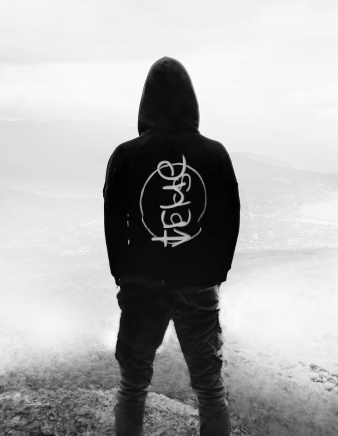
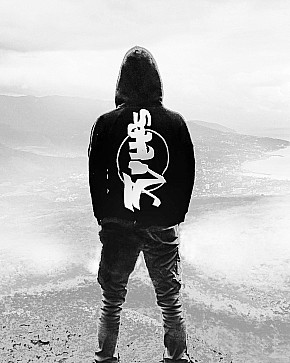
Replacing photos with contrasting ones. Adding a variable and styles to a width of 500. Fixed z-index on a modal window.

diff --git a/source/less/blocks/page-main.less b/source/less/blocks/page-main.less
@@ -140,6 +140,14 @@
 		text-align: center;
 }
 
+@media (min-width: @mobile-width-560){
+	.page-main__wrapper {
+		padding-left: 80px;
+		padding-right: 80px;
+	}
+}
+
+
 @media (min-width: @tablet-width) {  // ------------------------------------------------tablet
 	.page-main {
 		margin: 0;
@@ -149,6 +157,7 @@
 
 	.page-main__wrapper {
 		margin: 0 auto;
+		padding: 0;
 		padding-bottom: 135px;
 		width: 100%;
 		overflow-x: hidden;
@@ -493,7 +502,7 @@
 
 	.page-main__img img{
 		margin-top: -62px;
-		margin-left: 105px;
+		margin-left: 80px;
 		width: 594px;
 		height: auto;
 		vertical-align:bottom; 

diff --git a/source/less/blocks/modal.less b/source/less/blocks/modal.less
@@ -4,7 +4,7 @@
 	color: #000000;
 	background-color: #ffffff;
 	box-shadow: 0 30px 50px rgba(0, 0, 0, 0.7);
-	z-index: 99;
+	z-index: -1;
 	visibility: hidden;
 	opacity: 0;
 	transition: all .5s;
@@ -121,6 +121,7 @@
 	opacity: 1;
 	transition: all .5s;
   visibility: visible;
+  z-index: 99;
 }
 
 @media (min-width: @tablet-width) {

diff --git a/source/less/blocks/main-nav.less b/source/less/blocks/main-nav.less
@@ -77,8 +77,8 @@
 	position: fixed;
 	top: 0;
 	left: 0;
-	width: 100%;
-	height: 100%;
+	width: 100vh;
+	height: 100vh;
 
 	background-color: rgba(0,0,0,0.8);
 
@@ -128,6 +128,12 @@
 		display: block;
 	}
 
+}
+
+@media (min-width: @mobile-width-560){
+  .main-nav {
+    width: 480px;
+  } 
 }
 
 @media (min-width: @tablet-width) {

diff --git a/source/less/blocks/page-header.less b/source/less/blocks/page-header.less
@@ -33,6 +33,13 @@
   text-align: center;
 }
 
+@media (min-width: @mobile-width-560){
+  .page-header__wrapper {
+    width: 480px;
+  } 
+}
+
+
 @media (min-width: @tablet-width) {
   .page-header {
     min-height: 177px;

diff --git a/source/less/blocks/variables.less b/source/less/blocks/variables.less
@@ -1,3 +1,4 @@
+@mobile-width-500: 500px;
 @mobile-width-only: 767px;
 @tablet-width: 768px;
 @desktop-width-one: 1200px;
